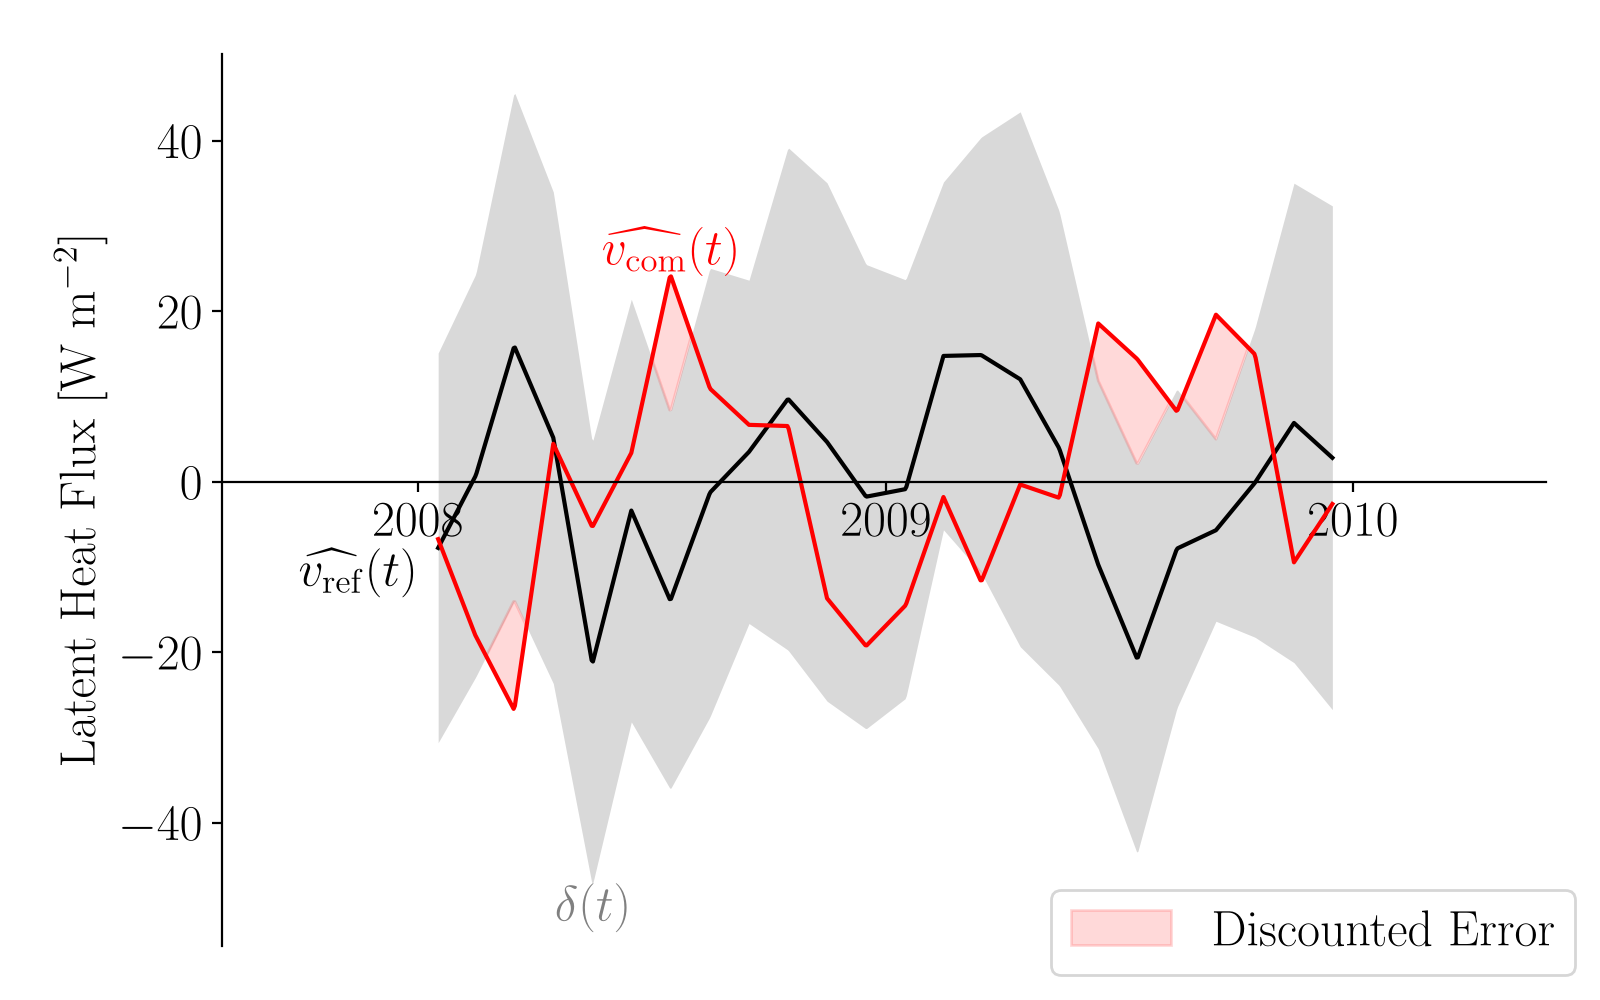
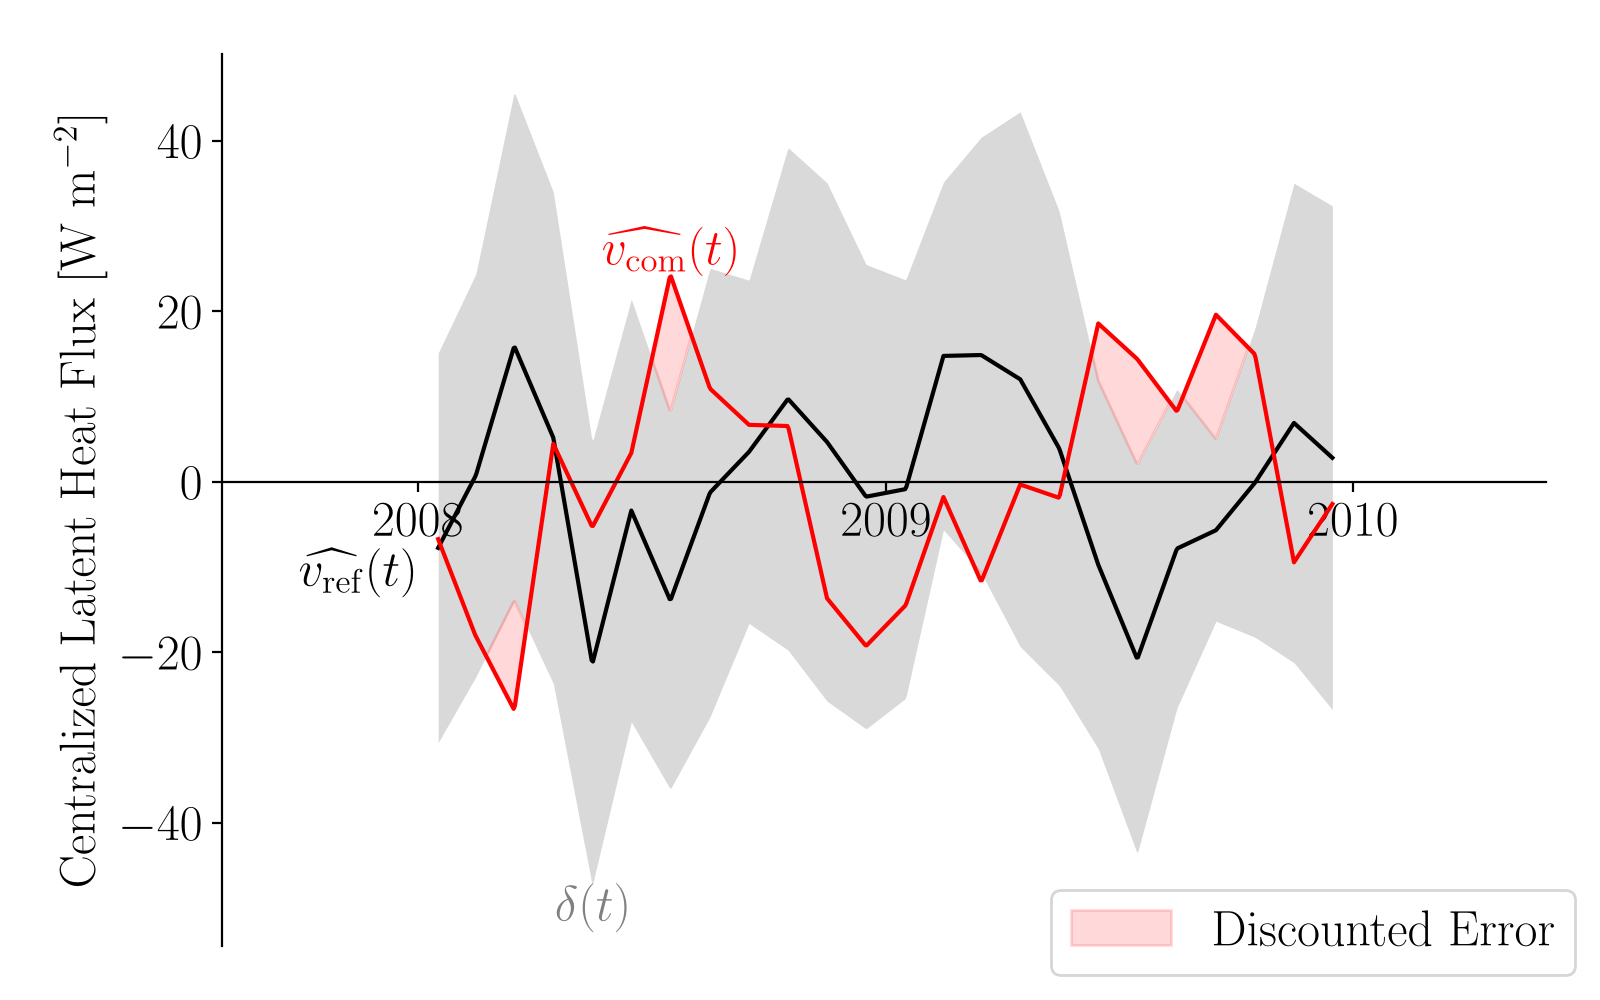
figure updates

Changed region(s): [[0.0312, 0.186, 0.0625, 0.899], [0.0312, 0.124, 0.0625, 0.155]]

diff --git a/scripts/plot_cartoons.py b/scripts/plot_cartoons.py
@@ -70,8 +70,6 @@ def plot_bias_cartoon(
 
     # plot reference mean and label
     ref_mean = ref.mean(dim="time")
-    print(f"{ref_mean=}")
-    print(f"{ref[var].std(dim='time')}")
     ax.fill_between(
         [np.datetime64("2010-02-01"), np.datetime64("2010-04-01")],
         [float(ref_mean[var] - ref_mean[f"{var}_sd"])] * 2,
@@ -104,7 +102,6 @@ def plot_bias_cartoon(
 
     # plot comparison mean and label
     com_mean = com.mean(dim="time")
-    print(f"{com_mean=}")
     ax.plot(
         [np.datetime64("2010-02-01"), np.datetime64("2010-04-01")],
         [com_mean[var]] * 2,
@@ -127,7 +124,7 @@ def plot_bias_cartoon(
     ax.set_ylim(lo - 0.08 * rng, hi + 0.05 * rng)
     ax.set_xticks([np.datetime64(f"{y}-01-01") for y in range(2008, 2011)])
     ax.set_xlabel("")
-    ax.set_ylabel(f"Latent Heat Flux [W m$^{{-2}}$]")
+    ax.set_ylabel("Latent Heat Flux [W m$^{{-2}}$]")
     fig.savefig(filename, dpi=200)
     plt.close()
 
@@ -221,7 +218,7 @@ def plot_rmse_cartoon(
     ax.set_ylim(lo - 0.08 * rng, hi + 0.05 * rng)
     ax.set_xticks([np.datetime64(f"{y}-01-01") for y in range(2008, 2011)])
     ax.set_xlabel("")
-    ax.set_ylabel(f"Latent Heat Flux [W m$^{{-2}}$]")
+    ax.set_ylabel("Centralized Latent Heat Flux [W m$^{{-2}}$]")
     fig.legend(loc="outside lower right")
     fig.savefig(filename, dpi=200)
     plt.close()
